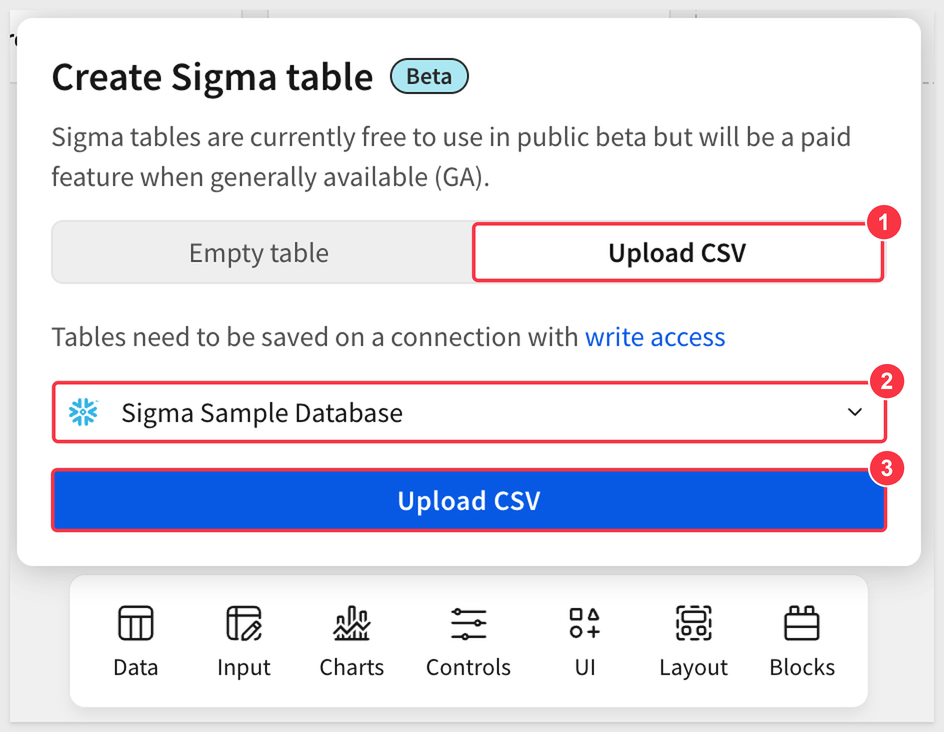
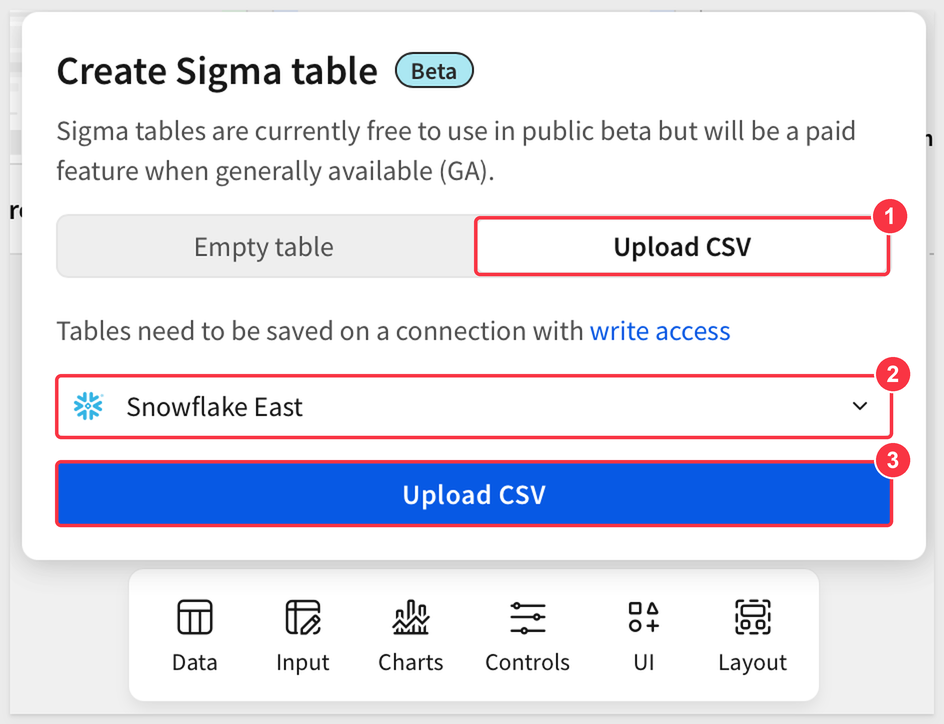
wip

diff --git a/site/sigmaguides/src/tables_create_and_promote_sigma_tables/tables_create_and_promote_sigma_tables.md b/site/sigmaguides/src/tables_create_and_promote_sigma_tables/tables_create_and_promote_sigma_tables.md
@@ -26,13 +26,14 @@ Duration: 5
 
 Sigma tables let teams edit data directly in a table, with every change written back to the data platform. The Getting Started with Sigma Tables QuickStart shows how to turn an existing warehouse table into a Sigma table.
 
-This QuickStart picks up from there and shows the other ways in. We will create a Sigma table from a CSV file, control who can view and edit it, promote it so other workbooks can use it, and add editable columns to data that already lives in the warehouse.
+This QuickStart picks up from there and shows the other ways in. We will create a Sigma table from a CSV file, control who can view and edit it, promote it so other workbooks can use it, and add editable columns to data that already lives in the warehouse. The data will be stored in Snowflake, through a Sigma connection with write access enabled.
 
 <aside class="positive">
 <strong>WHY IT MATTERS:</strong><br> Teams that capture edits, comments, or overrides usually end up with several linked input tables joined back to a warehouse view. A Sigma table can hold those edits in one governed table, shared by every workbook that needs it.
 </aside>
 
 Along the way you'll learn how to:
+- Prepare Snowflake schemas for Sigma tables and their audit logs
 - Create a Sigma table from a CSV file
 - Control who can view and edit a Sigma table
 - Promote a workbook Sigma table so it can be shared across workbooks
@@ -54,12 +55,71 @@ If something doesn't work as expected, here's how to [contact Sigma support](htt
 
 <ul>
   <li>Any modern browser is acceptable.</li>
-  <li>Access to your Sigma environment.</li>
+  <li>Access to your Sigma environment, with an Admin account type.</li>
+  <li>Sigma tables enabled for your organization.</li>
+  <li>A Snowflake connection in Sigma with write access enabled. See <a href="https://help.sigmacomputing.com/docs/set-up-write-access">Set up write access</a></li>
+  <li>Ability to create a schema and grant privileges in Snowflake. This QuickStart provides the script.</li>
   <li>Completion of <a href="https://quickstarts.sigmacomputing.com/guide/tables_getting_started_with_sigma_tables/index">Getting Started with Sigma Tables</a>, or equivalent familiarity.</li>
-  <!-- VERIFY: account type needed, Snowflake connection with a writable schema, a CSV file to upload (and where readers get it), sample data for the input column section. -->
+  <!-- VERIFY: sample data for the input column section. -->
  </ul>
 
+<aside class="positive">
+<strong>IMPORTANT:</strong><br> Sigma recommends using non-production resources when completing QuickStarts.
+</aside>
+
 <button>[Sigma Free Trial](https://www.sigmacomputing.com/free-trial/)</button>
+
+![Footer](assets/sigma_footer.png)
+<!-- END OF SECTION-->
+
+## Prepare Snowflake
+Duration: 8
+
+A Sigma table is a real table in your data platform, so it needs a place in Snowflake to live. We will create two schemas: `SIGMA_TABLES_WRITE`, where Sigma writes the tables it creates and promotes, and `SIGMA_TABLES_AUDIT`, where it records every edit made to them.
+
+<aside class="negative">
+<strong>NOTE:</strong><br> The script below grants access to <code>SIGMA_SERVICE_ROLE</code>. Substitute the role your Sigma connection actually uses if it differs. You can confirm it in Sigma under <code>Administration</code> > <code>Connections</code> by clicking your Snowflake connection.
+</aside>
+
+**1.** In a Snowflake worksheet, run the following script:
+
+```copy-code
+USE ROLE ACCOUNTADMIN;
+USE WAREHOUSE COMPUTE_WH;
+
+CREATE DATABASE IF NOT EXISTS QUICKSTARTS;
+CREATE SCHEMA   IF NOT EXISTS QUICKSTARTS.SIGMA_TABLES_WRITE;
+CREATE SCHEMA   IF NOT EXISTS QUICKSTARTS.SIGMA_TABLES_AUDIT;
+
+GRANT USAGE ON DATABASE QUICKSTARTS TO ROLE SIGMA_SERVICE_ROLE;
+
+GRANT USAGE, CREATE TABLE, CREATE VIEW, CREATE STAGE ON SCHEMA QUICKSTARTS.SIGMA_TABLES_WRITE TO ROLE SIGMA_SERVICE_ROLE;
+
+GRANT USAGE        ON SCHEMA QUICKSTARTS.SIGMA_TABLES_AUDIT TO ROLE SIGMA_SERVICE_ROLE;
+GRANT CREATE TABLE ON SCHEMA QUICKSTARTS.SIGMA_TABLES_AUDIT TO ROLE SIGMA_SERVICE_ROLE;
+GRANT SELECT ON ALL    TABLES IN SCHEMA QUICKSTARTS.SIGMA_TABLES_AUDIT TO ROLE SIGMA_SERVICE_ROLE;
+GRANT SELECT ON FUTURE TABLES IN SCHEMA QUICKSTARTS.SIGMA_TABLES_AUDIT TO ROLE SIGMA_SERVICE_ROLE;
+```
+
+<!-- VERIFY: confirm CSV upload and promotion work with these grants only. -->
+
+Click `Run all` (1). The results show `Statement executed successfully` (2).
+
+<img src="assets/ctp_00.png" width="900"/>
+
+<aside class="positive">
+<strong>NOTE:</strong><br> No <code>SELECT</code>, <code>UPDATE</code>, or ownership grants are needed on <code>SIGMA_TABLES_WRITE</code>. Sigma creates its tables there with the connection's role, so that role owns them and already has full access.
+</aside>
+
+**2.** In Sigma, go to `Administration` > `Connections` and select your Snowflake connection. Confirm `Role` (1) matches the role used in the script.
+
+**3.** Edit the connection and, under `Write access`, set `Write schema` to `QUICKSTARTS.SIGMA_TABLES_WRITE` (2). <!-- VERIFY: label of the button that opens the connection for editing -->
+
+**4.** Turn on `Sigma table audit logs` (3) and set `Audit log schema for Sigma tables` to `QUICKSTARTS.SIGMA_TABLES_AUDIT` (4). Leave `Auto-create Sigma table audit logs` off, then save the connection.
+
+<img src="assets/ctp_00a.png" width="900"/>
+
+For more information, see [Set up write access](https://help.sigmacomputing.com/docs/set-up-write-access)
 
 ![Footer](assets/sigma_footer.png)
 <!-- END OF SECTION-->
@@ -77,15 +137,23 @@ A Sigma table can start from scratch, much like an input table, inside a workboo
 
 <img src="assets/ctp_01.png" width="900"/>
 
-In the `Create Sigma table` dialog, select the `Upload CSV` tab (1), confirm the connection (2), then click `Upload CSV` (3). The connection needs write access, because Sigma saves the table there.
+In the `Create Sigma table` dialog, select the `Upload CSV` tab (1), select your Snowflake connection (2), then click `Upload CSV` (3). The connection needs write access, because Sigma saves the table there.
+
+<aside class="negative">
+<strong>IMPORTANT:</strong><br> Choose your own Snowflake connection here, not <code>Sigma Sample Database</code>. A table is promoted on the connection it was created on, so this choice decides where it can be promoted later.
+</aside>
+
+
 
 <img src="assets/ctp_02.png" width="500"/>
 
 **3.** Select "sigma-tables-sample-data.csv" when prompted. <!-- VERIFY: confirm the file picker appears when you click Upload CSV in the Create Sigma table dialog -->
 
-**4.** In the `Upload CSV` dialog, confirm the `Connection` (1) and leave `Contains headers` selected (2). Check that `Results` shows `20 rows - 7 columns` (3), then click `Save` (4).
+**4.** In the `Upload CSV` dialog, confirm the `Connection` is your Snowflake connection (1) and leave `Contains headers` selected (2). Check that `Results` shows `20 rows - 7 columns` (3), then click `Save` (4).
 
 <img src="assets/ctp_03.png" width="900"/>
+
+<!-- RECAPTURE ctp_03 if the Connection field shows Sigma Sample Database. -->
 
 Sigma loads the file and shows a new, fully editable Sigma table. It assigned a primary key based on the data.
 
@@ -105,13 +173,13 @@ Open the data source menu (1). It offers `Manage grants` (2) to control who can 
 <strong>IMPORTANT:</strong><br> Change the primary key before you promote the table. It cannot be changed afterwards.
 </aside>
 
-**6.** Hide the `Id` column that Sigma added as the primary key, so the table shows only the ticket data. Open the menu for the `Id` column and select `Hide column`. <!-- VERIFY: the Hide column menu label (the capture shows Unhide column on the hidden column) -->
+**6.** Save the workbook by clicking `Save as` and naming it:
 
-<aside class="negative"><strong>SCREENSHOT REQUIRED: ctp_05a</strong><br> Sigma table with the Id column menu open and Hide column selected</aside>
+```copy-code
+Sigma Tables Lab
+```
 
-<!-- <img src="assets/ctp_05a.png" width="700"/> -->
-
-**7.** Save the workbook by clicking `Save as` and naming it `Sigma Tables Lab`. The table is local to this workbook, so saving keeps it available for the sections that follow. <!-- VERIFY: button label for a new workbook (Save vs Save as) and the name used later in the QS -->
+The table is local to this workbook, so saving keeps it available for the sections that follow. <!-- VERIFY: button label for a new workbook (Save vs Save as) and the name used later in the QS -->
 
 ![Footer](assets/sigma_footer.png)
 <!-- END OF SECTION-->
@@ -121,11 +189,17 @@ Duration: 5
 
 Sigma controls who can use a table through teams. We will create two test teams first, so you can restrict the table in the next section and see the result without affecting anyone else.
 
-**1.** In the left menu of `Administration`, select `Teams` (1), then select `Create team` (2). <!-- VERIFY: account type needed to create teams; add it to Prerequisites -->
+**1.** In the left menu of `Administration`, select `Teams` (1), then select `Create team` (2).
 
 <img src="assets/ctp_06.png" width="900"/>
 
-**2.** On the `New team` page, enter `Tables Viewers` for `Team name` (1). Leave the other fields as they are and select `Create` (2).
+**2.** On the `New team` page, enter the following for `Team name` (1):
+
+```copy-code
+Tables Viewers
+```
+
+Leave the other fields as they are and select `Create` (2).
 
 <img src="assets/ctp_07.png" width="900"/>
 
@@ -133,7 +207,13 @@ Sigma controls who can use a table through teams. We will create two test teams 
 
 <img src="assets/ctp_08.png" width="900"/>
 
-**4.** Create a second team named `Tables Editors` the same way. On its team page (1), select `Add members` (2) and add yourself. Your name shows under `Team members` (3).
+**4.** Create a second team the same way, named:
+
+```copy-code
+Tables Editors
+```
+
+On its team page (1), select `Add members` (2) and add yourself. Your name shows under `Team members` (3).
 
 <img src="assets/ctp_09.png" width="900"/>
 
@@ -149,33 +229,47 @@ Duration: 8
 
 A Sigma table keeps access control next to the data, so you decide who can use it without leaving the workbook. We will start by opening the grant controls for the table.
 
-**1.** Return to the `Sigma Tables Lab` workbook and select the Sigma table.
+**1.** Return to the `Sigma Tables Lab` workbook, click the `Edit` link and select the Sigma table.
 
 **2.** In the element panel, open the data source menu (1) and select `Manage grants` (2).
 
 <img src="assets/ctp_11.png" width="400"/>
 
-<!-- VERIFY: the Manage grants dialog changed in the new UI. The paragraph that described the old `Local table management` dialog (Table grants list, `Can own`, `Grant access`) was removed 2026-11-11. Capture the new dialog, then write what it shows and how to add others. -->
+The `Manage data sources` dialog opens on the `Security` tab. `Table grants` lists who can manage the table, and `Row and column level rules` controls what everyone else can view or edit.
 
-<!-- VERIFY: row and column rules are not visible in this dialog (it scrolls right). The draft said: Under `Row and column level rules`, the default rule gives other people `View and edit` on all rows and all columns. Capture it, or remove it, and re-check the `Add rule` steps below. -->
+We will add rules that stack on top of each other:
 
-<!-- VERIFY (2026-11-07): the video's staging build showed a `Manage data sources` dialog with a `Security` tab, `Table grants`, and a separate `Row and column level rules` section (`Add rule`; columns Who, Permission, Row, Column; default rule Others / View and edit / All rows / All columns). Phil's trial shows `Local table management` with `Table grants` only (grant types `Write` and `Own`), and nothing further when scrolled right. So the rules section does not exist in the trial. The narrator also introduces row and column security as a roadmap item. The `Add rule` steps, the `View` / `View and edit` wording and the "No data" step cannot stay as written. Decision pending (Phil): drop the rules, the "No data" step and possibly the test teams; keep `Table grants` and `Grant access`. -->
-
-To restrict this, add rules that stack on top of each other:
-
-**1.** Click `Add rule` (1), select the `Tables Viewers` team under `Who can access` (2), and set `Permit to` as `View only` (3). Leave `Row` set to `All rows`, make sure `Column` is turned on, and clear `Id` in the column list so the team sees every other column. <!-- VERIFY: column picker behavior and label; ctp_12 shows `7 columns` because the Column list was already changed -->
-
-**2.** Add a second rule for the `Tables Editors` team with `View and edit`. With `View and edit`, `Column` is always on, so select `All columns`. Editors can then see the `Id` column, which the viewers cannot.
-
-**3.** Click `Save` (4).
+**1.** Click `Add rule` (1), select the `Tables Viewers` team under `Who can access` (2), and set `Permit to` as `View only` (3).
 
 <img src="assets/ctp_12.png" width="900"/>
 
-Under `Scope`, `Row` is on by default and limits a rule to specific rows. `Column` limits it to specific columns. With `View only`, turn `Column` on to choose the columns. With `View and edit`, `Column` cannot be turned off, the primary key column is included by default, and you can add more columns or select `All columns`.
+Leave `Row` set to `All rows` and make sure `Column` is turned on. In the column list, clear `Ticket Id` (1) so the team sees every other column. Leave `Id` selected (2), because the primary key must stay in the rule. The list now shows `7 columns` (3).
+
+<img src="assets/ctp_12c.png" width="900"/>
+
+**2.** Click `Add rule` again to add a second rule. Set `Permit to` as `View and edit` (1).
+
+With `View and edit`, `Column` is always on, so select `All columns` (2). Select the `Tables Editors` team under `Who can access` (3), then click `Save` (4). 
+
+Editors can then see the `Ticket Id` column, which the viewers cannot.
+
+<img src="assets/ctp_12a.png" width="900"/>
+
+**3.** Click `Add rule` once more and add a rule for yourself: set `Permit to` as `View and edit`, select `All columns`, select your own user under `Who can access`, and click `Save`. Once a table has rules, they apply to everyone who opens it, including you, so this rule keeps the data visible in your own workbook.
+
+<!-- VERIFY: does the editor also need a Table grant (Phil Editor showed Can own in one run, not in the 6f580f19 run)? Teams vs users: latest run used users Phil Viewer / Phil Editor. -->
+
+Both rules are now listed under `Row and column level rules`. The editors rule covers `All columns` (1), while the viewers rule lists the columns it allows, without `Ticket Id` (2).
+
+<img src="assets/ctp_12b.png" width="900"/>
+
+<aside class="positive">
+<strong>SCOPE:</strong><br> Under <code>Scope</code>, <code>Row</code> is on by default and limits a rule to specific rows. <code>Column</code> limits it to specific columns. With <code>View only</code>, turn <code>Column</code> on to choose the columns. With <code>View and edit</code>, <code>Column</code> cannot be turned off, the primary key column is included by default, and you can add more columns or select <code>All columns</code>.
+</aside>
 
 ### User Impersonation
 
-Back in the workbook, the table still shows all of its data. Your account was granted access to the table, so the rules do not apply to you. To see them in effect, impersonate a user who is assigned to one of the teams. If your account has no additional users to try this with, such as in a trial, follow along with the screenshots.
+Back in the workbook, the table still shows all of its data, because your own rule covers `All columns`. To see the other rules in effect, impersonate a user who is assigned to one of the teams. If your account has no additional users to try this with, such as in a trial, follow along with the screenshots.
 
 Impersonated users need access to the workbook, so share it with both teams first. In the `Share Workbook` dialog, give `Tables Viewers` the `Can view` permission (1) and `Tables Editors` the `Can edit` permission (2), then click `Share` (3). <!-- VERIFY: how the Share Workbook dialog is opened (button label and location) -->
 
@@ -187,15 +281,16 @@ In `Administration` > `Users`, open the menu for a user on the `Tables Viewers` 
 
 <img src="assets/ctp_13b.png" width="900"/>
 
-After you select `Impersonate user`, open the `Sigma Tables Lab` workbook. The banner (1) shows who you are logged in as. The viewer does not see the `Id` column we hid earlier, and cannot edit the workbook to add it back. When you are done, select `Stop impersonation` (2).
+After you select `Impersonate user`, open the `Sigma Tables Lab` workbook. The banner (1) shows who you are logged in as. The viewer does not see the `Ticket Id` column, and cannot edit the workbook to add it back. <!-- RECAPTURE ctp_13: viewer view without Ticket Id, Id showing data --> When you are done, select `Stop impersonation` (2).
 
 <img src="assets/ctp_13.png" width="900"/>
 
 <!-- VERIFY: how the workbook is opened after impersonation starts. The capture shows the viewer in a custom view of the workbook. -->
 
-Impersonate the editor the same way. The editor can edit the workbook and the rule gives them `All columns`, so they can unhide `Id` if they want to: in the element panel, open the menu for `Id` (2) and select `Unhide column` (3). The banner (1) confirms who you are logged in as. <!-- VERIFY: where the Id menu is opened from in the element panel, and what the table shows after Unhide column -->
+Impersonate the editor the same way. The banner confirms who you are logged in as, and the editor sees every column, including `Ticket Id`, because their rule covers `All columns`.
 
-<img src="assets/ctp_13c.png" width="900"/>
+<!-- RECAPTURE ctp_13c: editor impersonation showing all columns (no Unhide column step) -->
+<!-- <img src="assets/ctp_13c.png" width="900"/> -->
 
 <aside class="positive">
 <strong>NOTE:</strong><br> This is a good way to confirm a rule works before you rely on it: view the table as a user the rule applies to.
@@ -207,33 +302,41 @@ Impersonate the editor the same way. The editor can edit the workbook and the ru
 ## Promote a Table to a Connection Table
 Duration: 8
 
-A local Sigma table lives in one workbook. Promoting it creates a shared table in your data platform that any workbook can use.
-
-<aside class="positive">
-<strong>NOTE:</strong><br> Promote the table to a connection you own, not `Sigma Sample Database`. We created this table on `Sigma Sample Database`, so if you do not have a connection with write access of your own, follow along with the steps and screenshots.
-</aside>
+A local Sigma table lives in one workbook. Promoting it creates a shared table in Snowflake that any workbook can use. We will place it in the `SIGMA_TABLES_WRITE` schema created in "Prepare Snowflake."
 
 **1.** From the table's data source menu (1), select `Promote table` (2).
 
 <img src="assets/ctp_13d.png" width="450"/>
 
-**2.** In `Table name`, enter a name, for example `ST_DEMO_101` (1).
+**2.** In `Table name`, enter `SUPPORT_TICKETS` (1).
 
-**3.** In `Schema`, choose a destination on your own connection (2). If you have access to more than one schema, you can place tables in different business-unit buckets.
+**3.** In `Schema`, select `QUICKSTARTS.SIGMA_TABLES_WRITE` (2). If the connection's role has access to more than one schema, you can place tables in different business-unit buckets.
 
 **4.** Review `Columns included` (3). The dialog shows the columns that will be included and how their names will map.
+
+<aside class="positive">
+<strong>NOTE:</strong><br> Promotion includes every column in the Sigma table, so <code>Id</code> carries over to <code>SUPPORT_TICKETS</code> as its primary key.
+</aside>
+
+<!-- VERIFY: can Id be hidden or dropped on the promoted table afterward (it is the primary key)? If yes, add a step after promotion; if no, leave the NOTE as is. -->
 
 **5.** Click `Promote` (4).
 
 <img src="assets/ctp_14.png" width="900"/>
 
+<!-- RECAPTURE ctp_14: Table name SUPPORT_TICKETS, Schema QUICKSTARTS.SIGMA_TABLES_WRITE, Columns included 8/8. -->
+
 <aside class="negative">
 <strong>IMPORTANT:</strong><br> Edits made during promotion may be lost, so make sure there are no pending edits before you click `Promote`.
 </aside>
 
-The result is a shared Sigma table. The name changes, and in the data source it now looks like a warehouse table, although it is editable. Select `View` to open it in the connection explorer, where it appears in the write-back schema with standard column names.
+The result is a Sigma table called `Support_Tickets` in the current workbook. The data source now shows `SUPPORT_TICKETS` (1). `Id` is still in the column list, marked as the primary key (2).
 
-On the table's `Access` tab you can turn write access on or off, and open the audit log. <!-- VERIFY: do not mention any beta label -->
+<img src="assets/ctp_14a.png" width="900"/>
+
+To open it in the connection explorer, open the element menu (1), select `Element source` (2), then `View table` (3). It appears in `QUICKSTARTS.SIGMA_TABLES_WRITE` with standard column names.
+
+<img src="assets/ctp_14b.png" width="900"/>
 
 <aside class="negative"><strong>SCREENSHOT REQUIRED: ctp_15</strong><br> Access tab: write access and audit log (no real names or emails)</aside>
 <!-- <img src="assets/ctp_15.png" width="900"/> -->
@@ -279,7 +382,11 @@ An input column adds editable columns next to warehouse data, like a linked inpu
 
 **1.** In the element panel, open `Columns` and select `Add column`, then the input column option. <!-- VERIFY: path and label -->
 
-**2.** Set `Type` to `Number` and `Column name` to `Quantity Adj`.
+**2.** Set `Type` to `Number` and `Column name` to:
+
+```copy-code
+Quantity Adj
+```
 
 **3.** For `Primary key column(s)`, select `Order Number`, and click `Submit`.
 
